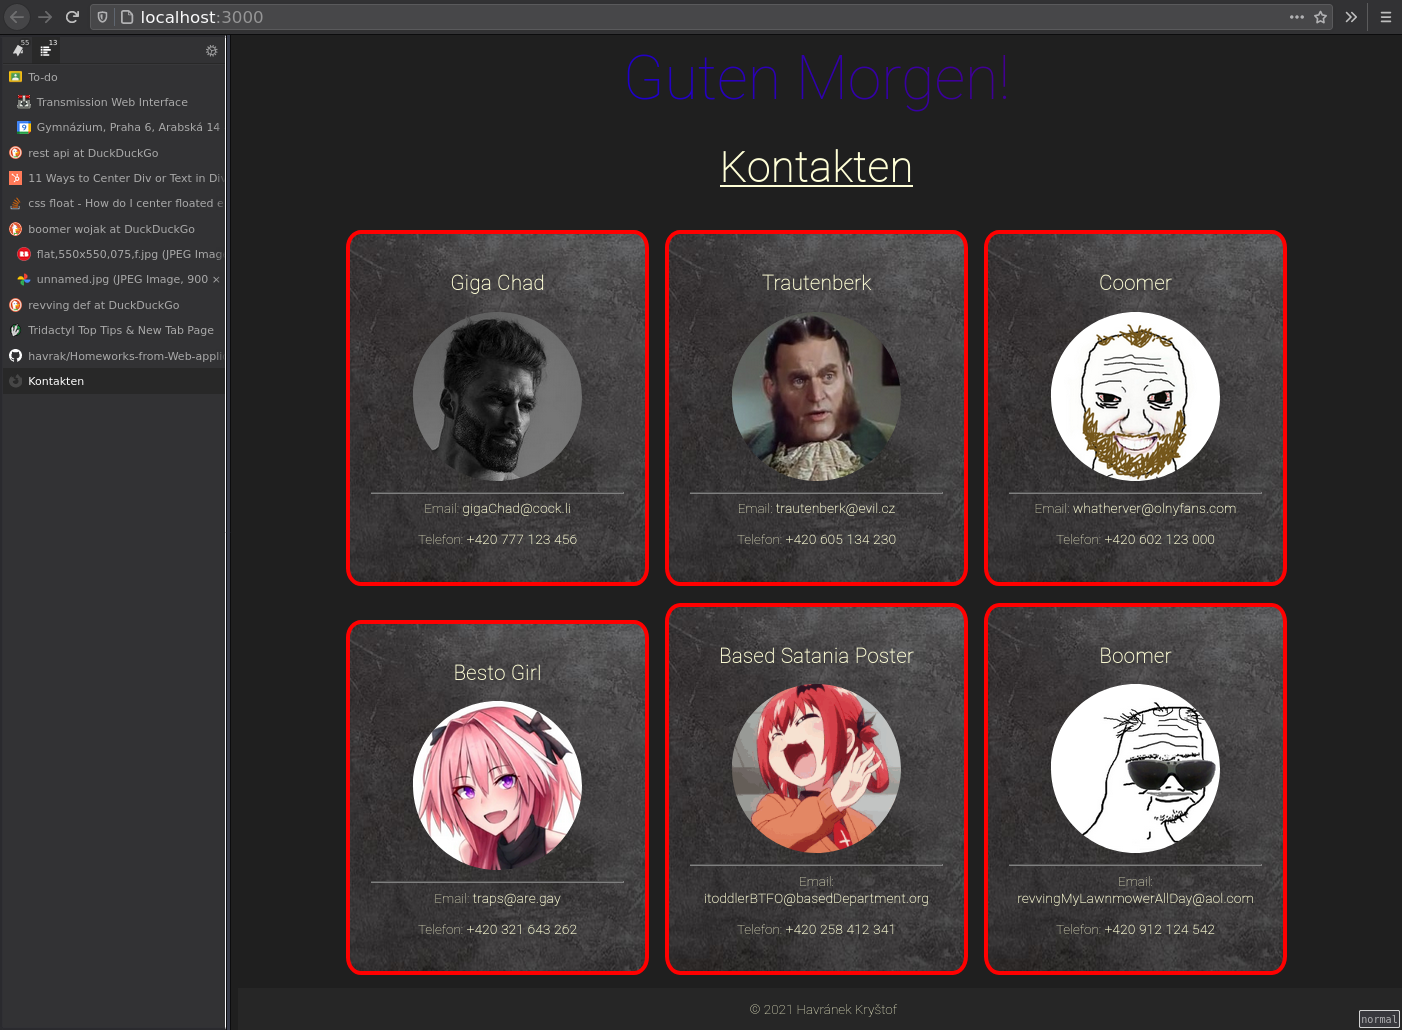
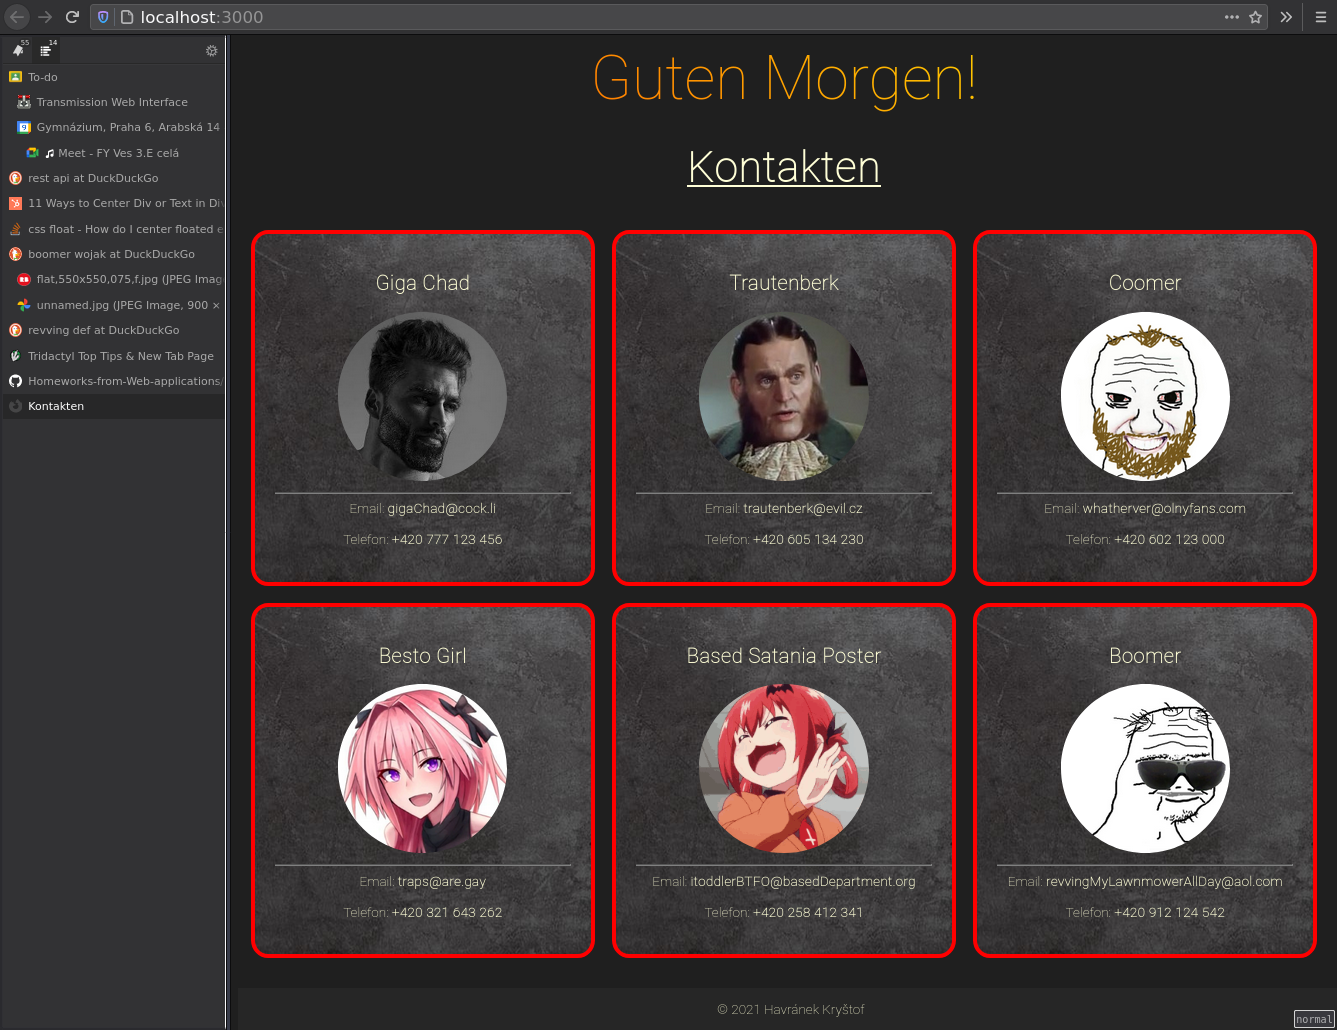
fixed bad aligment in css

diff --git a/10 - JS 108 (React - Components)/public/styles.css b/10 - JS 108 (React - Components)/public/styles.css
@@ -14,7 +14,7 @@ img {
 .contactCard {
   padding: 24px;
   margin: 10px;
-  width: 300px;
+  width: 350px;
   display: inline-block;
   border: 5px solid red;
   border-radius: 5%;
